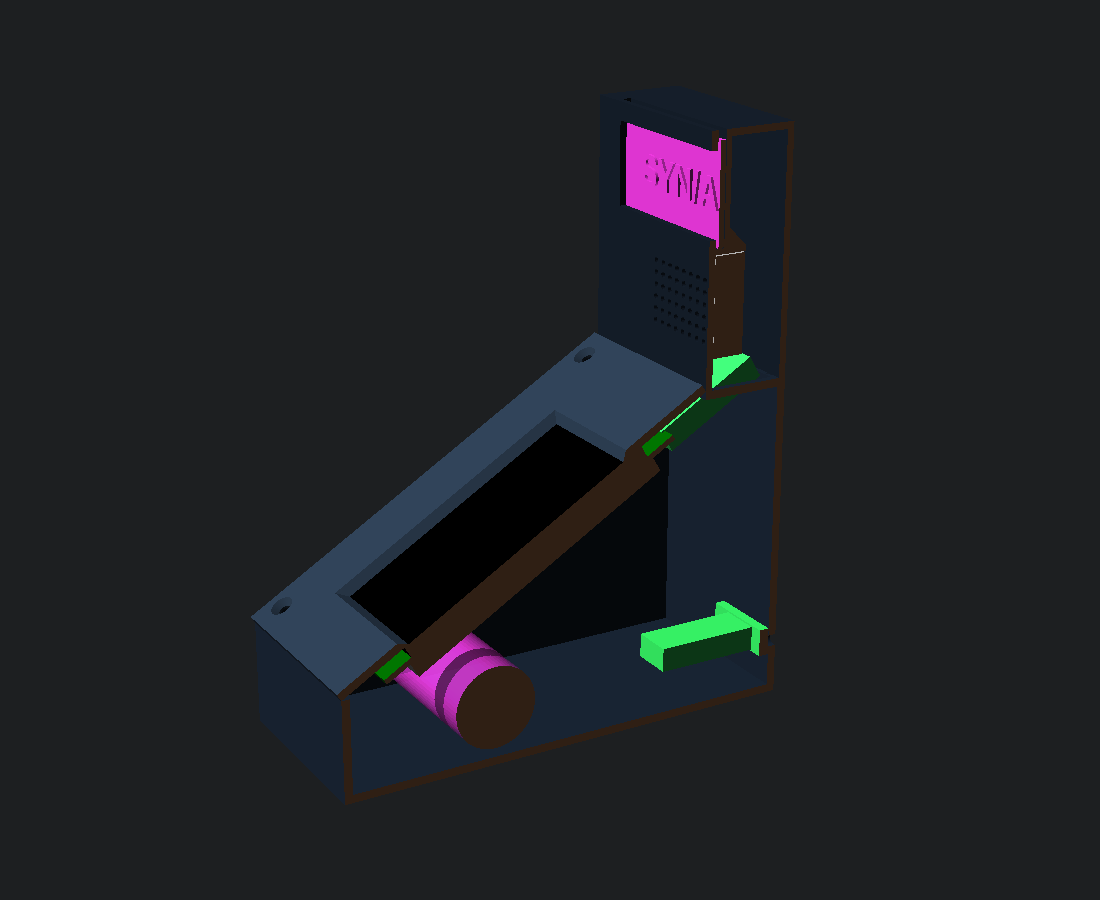
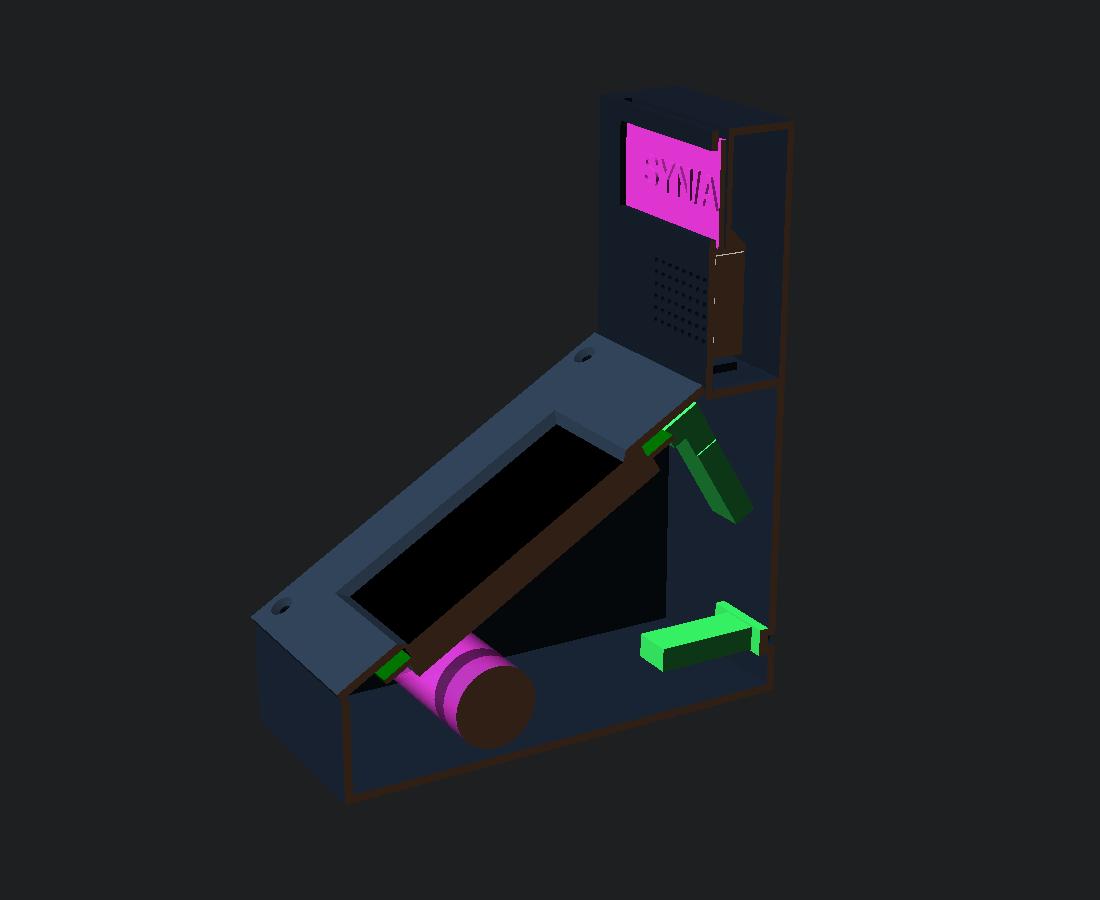
Lit flipper buttons, correct socket pinouts, 90-degree USB-C adapter
- ES3C35P: drive 5 V LED arcade buttons from IO45/IO46 (through NPN
  transistors): a glow in play, a flare while pressed, flashes on the big
  events, and an alternating breathe off the table. The CYD ignores them.
- The serial socket's pin 1 is 5V and pin 2 GND (read from the vendor's
  silkscreen); the docs had them swapped. Buttons go on GND, never pin 1.
- Cabinet model: a 90-degree adapter on the board's port turns the USB-C
  extension down toward the back wall instead of up into the backbox; the
  clash test covers it. README: the assembled cabinet photo.

Changed region(s): [[0.6182, 0.3733, 0.7109, 0.5911], [0.6491, 0.1867, 0.68, 0.2489]]

diff --git a/src/main.cpp b/src/main.cpp
@@ -229,6 +229,38 @@ void ledUpdate() {
   if (ledUntil && millis() > ledUntil) { led(false, false, false, 0); ledUntil = 0; }
 }
 
+// ---------------------------------------------------------------- button lamps
+// The cabinet's LED flipper buttons. On the table they glow, flare while
+// pressed and flash on the big moments; off it (title, demo, game over) they
+// breathe in turn, asking to be pressed.
+float lampLvl[2] = {0, 0};
+uint32_t lampFlashUntil = 0;
+uint16_t lampFlashMs = 1;  // half of one on/off cycle
+void lampFlash(uint32_t ms, uint16_t half) {
+  lampFlashUntil = millis() + ms;
+  lampFlashMs = half;
+}
+void lampsUpdate(const pb::Input& in, float dt, bool dimmed) {
+  uint32_t t = millis();
+  float out[2];
+  if (game.state != pb::PLAY || game.demo) {
+    float s = sinf(t * (2 * PI / 2400.0f));
+    float k = dimmed ? 0.3f : 1.0f;
+    out[0] = k * (0.5f + 0.5f * s);
+    out[1] = k * (0.5f - 0.5f * s);
+    lampFlashUntil = 0;
+  } else {
+    bool press[2] = {in.left, in.right};
+    for (int i = 0; i < 2; i++) {
+      lampLvl[i] = press[i] ? 1.0f : fmaxf(0.25f, lampLvl[i] - dt * 3);  // fade back to a glow
+      out[i] = lampLvl[i];
+    }
+    if (t < lampFlashUntil) out[0] = out[1] = (t / lampFlashMs) % 2 ? 0.0f : 1.0f;
+  }
+  // squared, so the fades look even to the eye
+  board::buttonLamps((uint8_t)(out[0] * out[0] * 255), (uint8_t)(out[1] * out[1] * 255));
+}
+
 // Sound design. On the ES3C35P every field is heard; the CYD's buzzer plays
 // the start pitch of each note as a square wave.
 void handleEvents(uint32_t ev) {
@@ -239,29 +271,35 @@ void handleEvents(uint32_t ev) {
              {784, 60, W_PULSE}, {1047, 60, W_PULSE}, {1568, 90, W_PULSE}, {1319, 90, W_PULSE},
              {1568, 90, W_PULSE}, {2093, 400, W_SAW, 2600}});
     led(true, false, true, 1500);
+    lampFlash(1500, 70);
   } else if (ev & EV_EXTRA) {
     sfx(9, {{392, 80, W_PULSE}, {523, 80, W_PULSE}, {659, 80, W_PULSE}, {784, 80, W_PULSE},
             {1047, 120, W_PULSE}, {784, 80, W_PULSE}, {1047, 500, W_SAW, 1568}});
     led(true, true, true, 1200);
+    lampFlash(1200, 60);
   } else if (ev & EV_JACKPOT) {
     sfx(9, {{523, 70, W_PULSE}, {659, 70, W_PULSE}, {784, 70, W_PULSE}, {1047, 120, W_PULSE},
             {784, 60, W_PULSE}, {1047, 60, W_PULSE}, {1319, 350, W_SAW, 1760}});
     led(true, true, true, 900);
+    lampFlash(900, 60);
   } else if (ev & EV_GAMEOVER) {
     sfx(8, {{392, 200, W_TRI}, {330, 200, W_TRI}, {262, 200, W_TRI}, {196, 700, W_SAW, 98}});
     led(true, false, false, 1200);
   } else if (ev & EV_DRAIN) {
     sfx(7, {{440, 650, W_SAW, 70}});
     led(true, false, false, 500);
+    lampFlash(1000, 250);
   } else if (ev & (EV_SAVE | EV_KICKBACK)) {
     sfx(6, {{880, 70, W_TRI}, {1175, 70, W_TRI}, {1760, 160, W_TRI}});
     led(false, true, false, 400);
+    lampFlash(400, 100);
   } else if (ev & (EV_SYN | EV_ACK)) {
     sfx(5, {{784, 60, W_PULSE}, {988, 60, W_PULSE}, {1175, 60, W_PULSE}, {1568, 200, W_PULSE}});
     led(true, true, false, 400);
   } else if (ev & EV_SKILL) {
     sfx(6, {{400, 220, W_SAW, 2000}, {2093, 90, W_TRI}, {2637, 160, W_TRI}});
     led(true, false, true, 400);
+    lampFlash(400, 50);
   } else if (ev & EV_RAMP) {
     sfx(5, {{300, 260, W_SAW, 1500}, {1760, 160, W_TRI}});
     led(false, true, true, 300);
@@ -473,6 +511,7 @@ void loop() {
     if (game.demo) game.endDemo();
     for (int v = 0; v < board::VOICES; v++) board::tone(v, 0);
     board::led(false, false, false);
+    board::buttonLamps(0, 0);
     board::setBrightness(0);
     Serial.println("[pinball] sleep");
     return;
@@ -530,6 +569,7 @@ void loop() {
   renderFrame();
   sfxUpdate();
   ledUpdate();
+  lampsUpdate(in, dt, power == DIMMED);
 
   frames++;
   if (millis() - fpsT >= 5000) {

diff --git a/src/board_es3c35p.cpp b/src/board_es3c35p.cpp
@@ -16,17 +16,22 @@
 // and the vendor's touch library agrees: reset 48, interrupt 47.
 //
 // Flipper buttons go on the serial-port header (the vendor spec's "1.25mm
-// 4P socket", P2 on the schematic): pin 1 GND, pin 3 TXD0 = IO43 (left),
-// pin 4 RXD0 = IO44 (right), each through a 100R series resistor on the
-// board. Pin 2 is power; leave it alone. This build's console is native USB,
-// so UART0 is idle and the IO table allows those two as plain IO. Each button
-// is a momentary switch from its pin to GND; internal pull-ups, so unwired
+// 4P socket", silkscreened UART, P2 on the schematic). Per the silkscreen in
+// the vendor's outline drawing: pin 1 (triangle) 5V, pin 2 GND, pin 3 TXD =
+// IO43 (left), pin 4 RXD = IO44 (right), each through a 100R series resistor
+// on the board. Never wire a button to pin 1: that's 5 V. This build's
+// console is native USB, so UART0 is idle and the IO table allows those two
+// as plain IO. Each button is a momentary switch from its pin to GND; internal pull-ups, so unwired
 // pins read "not pressed". Touch keeps working alongside the buttons.
 //   - The ROM prints its boot log on IO43, so don't hold the left button
 //     while the board resets (the 100R limits the current if you do).
 //   - IO45/46 on the expansion header are free too, but they're strapping
 //     pins (IO45 picks the flash voltage at reset), so a pull-up there could
-//     stop the board booting.
+//     stop the board booting. They drive the flipper buttons' lamps instead:
+//     the expansion socket (P3, silkscreened IO45 IO46 GND 3.3V) is pin 1
+//     3.3V, pin 2 GND, pin 3 IO46 (right lamp), pin 4 IO45 (left lamp). Each pin switches its 5 V lamp through an NPN
+//     transistor (1k into the base), so the pin only ever sees a base, which
+//     leaves it low at reset as the straps need.
 
 #include <Arduino.h>
 #if defined(BOARD_ES3C35P)
@@ -67,6 +72,8 @@ constexpr int PIN_LED = 40;
 constexpr int PIN_BTN_LEFT = 43;   // serial header pin 3 (TXD0)
 constexpr int PIN_BTN_RIGHT = 44;  // serial header pin 4 (RXD0)
 constexpr int PIN_BTN_LAUNCH = 0;  // BOOT
+constexpr int PIN_LAMP_LEFT = 45, PIN_LAMP_RIGHT = 46;  // expansion socket pins 4 / 3
+constexpr int LAMP_CH_LEFT = 2, LAMP_CH_RIGHT = 3;     // LEDC channels (backlight is 1)
 
 uint8_t maxPoints = 0;
 board::Touch held[board::MAX_TOUCH];
@@ -253,6 +260,11 @@ bool init() {
   pixel.begin();
   pixel.setBrightness(60);
   led(false, false, false);
+  ledcSetup(LAMP_CH_LEFT, 5000, 8);
+  ledcSetup(LAMP_CH_RIGHT, 5000, 8);
+  ledcAttachPin(PIN_LAMP_LEFT, LAMP_CH_LEFT);
+  ledcAttachPin(PIN_LAMP_RIGHT, LAMP_CH_RIGHT);
+  buttonLamps(0, 0);
 
   shadow = (uint16_t*)ps_malloc(320 * 480 * 2);
   if (!St77922::begin()) return false;
@@ -340,6 +352,11 @@ void setBrightness(uint8_t v) {
 void led(bool r, bool g, bool b) {
   pixel.setPixelColor(0, pixel.Color(r ? 255 : 0, g ? 255 : 0, b ? 255 : 0, 0));
   pixel.show();
+}
+
+void buttonLamps(uint8_t left, uint8_t right) {
+  ledcWrite(LAMP_CH_LEFT, left);
+  ledcWrite(LAMP_CH_RIGHT, right);
 }
 
 void readRowRGB(int y, uint8_t* rgb) {

diff --git a/src/board.hpp b/src/board.hpp
@@ -55,6 +55,9 @@ void setVolume(uint8_t level);
 extern const uint8_t BRIGHT_FULL;  // the board's normal backlight level
 void setBrightness(uint8_t v);     // 0 = off
 void led(bool r, bool g, bool b);
+// the flipper buttons' own lamps (LED arcade buttons), 0..255 each; boards
+// without them ignore this
+void buttonLamps(uint8_t left, uint8_t right);
 
 // screenshot support: one screen row as RGB888, and the serial speed the
 // row stream uses (a no-op over native USB, where baud means nothing)

diff --git a/src/board_cyd.cpp b/src/board_cyd.cpp
@@ -110,6 +110,8 @@ void led(bool r, bool g, bool b) {
   digitalWrite(PIN_RGB_B, b ? LOW : HIGH);
 }
 
+void buttonLamps(uint8_t, uint8_t) {}  // no spare pins for them
+
 void readRowRGB(int y, uint8_t* rgb) { tft.readRectRGB(0, y, 320, 1, rgb); }
 
 void serialFast(bool on) {

diff --git a/case/README.md b/case/README.md
@@ -1,5 +1,7 @@
 # Tabletop cabinet (ES3C35P)
 
+<img src="../docs/cabinet.jpg" alt="the printed cabinet running the demo" width="360">
+
 ![assembly](renders/assembly.png) ![cutaway](renders/section.png)
 
 A small pinball cabinet for the LCDwiki ES3C35P: the screen lies on a 30° deck,
@@ -51,7 +53,9 @@ and on their way in) against the printed parts, and it must come out empty
 | 4 | M3 × 6 screws (board to deck) |
 | 4 | M3 × 8 countersunk screws (deck to body) |
 | 4 | 10 mm rubber feet |
+| 2 | NPN transistors (2N2222, 2N3904…) and 2 × 1 kΩ, if the flipper buttons have 5 V LEDs |
 | 1 | USB-C panel-mount extension, 30 cm: female socket with a two-screw flange, straight male plug (comes with M3 × 11 screws) |
+| 1 | 90° USB-C adapter, male to female, socket on the broad face (12 mm body, 7.1 mm rise) |
 
 The board's speaker and button sockets are 1.25 mm. JST GH and MX1.25
 (PicoBlade) are both 1.25 mm and don't mate, so test-fit a plug before buying
@@ -59,8 +63,8 @@ a batch.
 
 ## Assembly
 
-The board's USB-C plug sticks up past the end of the deck into the backbox, so
-the deck goes in **before** the backbox.
+The deck goes in **before** the backbox: the speaker lead runs up from the
+board through the body's top, behind the deck.
 
 1. Press the M3 inserts into the deck's four board standoffs and the body's
    four deck bosses.
@@ -73,11 +77,16 @@ the deck goes in **before** the backbox.
    spacing, so the holes are slots covering 18–22 mm; measure yours, and if it
    falls outside that, change `USBC_SPACING_MIN/MAX` and re-export. If the
    flange holes aren't threaded, add M3 nuts inside.
-5. Plug the extension's male end into the board, and plug the speaker lead into
-   the board's speaker socket. Wire the buttons (below).
-6. Lower the deck in, guiding the USB-C plug's tail and the speaker lead up
-   through the opening in the body's top behind the deck. Coil the spare USB
-   cable at the bottom of the body. Screw the deck down.
+5. Plug the 90° adapter into the board, socket facing **away from the
+   screen** (USB-C goes in either way up, so turn it over if it faces the
+   glass), and plug the extension's male end into it. The plug then points
+   down toward the back wall, and the cable runs down the wall to the socket
+   in one loose loop; without the adapter it has to double back hard inside
+   the backbox. Plug the speaker lead into the board's speaker socket, and
+   wire the buttons (below).
+6. Lower the deck in, guiding the speaker lead up through the opening in the
+   body's top behind the deck. Coil the spare USB cable at the bottom of the
+   body. Screw the deck down.
 7. Slide the speaker up into the backbox from its open bottom, face against
    the grille, until it stops under the shelf. Centre it on the grille and run
    a bead of hot glue along its sides to hold it.
@@ -90,10 +99,12 @@ the deck goes in **before** the backbox.
 
 | From | To |
 |---|---|
-| Left flipper button | IO43 (serial socket pin 3) and GND (pin 1) |
-| Right flipper button | IO44 (serial socket pin 4) and GND (pin 1) |
+| Left flipper button | serial socket (`UART`) TXD, pin 3, and GND, pin 2 |
+| Right flipper button | serial socket (`UART`) RXD, pin 4, and GND, pin 2 |
 | Launch button | across the board's BOOT switch (GPIO 0 and GND) |
 | Speaker | the board's 2-pin speaker socket |
+| Flipper button lamps (LED buttons) | through a transistor each from IO45 (left) and IO46 (right) on the expansion socket; see [lit flipper buttons](../README.md#physical-buttons) |
 
-Leave the serial socket's pin 2 alone: it carries power. Don't hold the launch
-button while the board powers up or resets, because it then starts in flashing mode.
+The serial socket's pin 1 (marked with a triangle, labelled 5V) is power:
+never wire a button to it. Don't hold the launch button while the board powers
+up or resets, because it then starts in flashing mode.

diff --git a/README.md b/README.md
@@ -116,6 +116,8 @@ schematic, ST77922 specification and example code.
 
 ## Cabinet
 
+<img src="docs/cabinet.jpg" alt="the printed cabinet running the demo" width="360">
+
 [`case/`](case/README.md) has a printable tabletop cabinet for the ES3C35P (OpenSCAD, with
 ready STLs): a 30° deck, a backbox with marquee and speaker, and arcade buttons on
 the sides. It uses the `es3c35p-cabinet` firmware build, which turns the image
@@ -139,13 +141,36 @@ board ships with a 1.25 mm to 2.54 mm adapter cable):
 
 | Button | Pin | Where |
 |---|---|---|
-| Left flipper | IO43 | serial header pin 3 (TXD0) |
-| Right flipper | IO44 | serial header pin 4 (RXD0) |
+| Left flipper | IO43 | serial header **TXD** (pin 3) |
+| Right flipper | IO44 | serial header **RXD** (pin 4) |
 | Launch | GPIO 0 | the board's **BOOT** button |
-| (common) | GND | serial header pin 1 (pin 2 is power: leave it alone) |
+| (common) | GND | serial header **GND** (pin 2) |
+
+The header is silkscreened `UART` with `RXD TXD GND 5V`; pin 1 (the triangle)
+is **5V**, so never put a button on it.
 
 Don't hold the left button while the ES3C35P resets: the ROM prints its boot
 log on IO43.
+
+**Lit flipper buttons (ES3C35P):** 5 V LED arcade buttons light up with the
+game: they glow during play, flare while pressed, flash on multiball, jackpots
+and drains, and breathe in turn on the title screen and in the demo. Each
+lamp is switched by an NPN transistor (2N2222, 2N3904 or similar) from the
+expansion socket (P3, 1.25 mm 4-pin):
+
+| From | To |
+|---|---|
+| IO45 (expansion pin 4) | 1 kΩ, then the left lamp's transistor base |
+| IO46 (expansion pin 3) | 1 kΩ, then the right lamp's transistor base |
+| both emitters | GND (expansion pin 2) |
+| each lamp's − | its transistor's collector |
+| each lamp's + | 5V (serial header pin 1) |
+
+The expansion socket is silkscreened `IO45 IO46 GND 3.3V`; its pin 1 (the
+triangle) is 3.3V and isn't used. IO45 and IO46 must be low when the board
+starts; a transistor base keeps them there, but a lamp wired straight to the
+pin could stop it booting.
+On the CYD the lamps aren't driven.
 
 Any button press also starts a game or leaves the demo. Don't hold BOOT while
 the board resets (it enters flash mode). Pins are set at the top of `main.cpp`.
